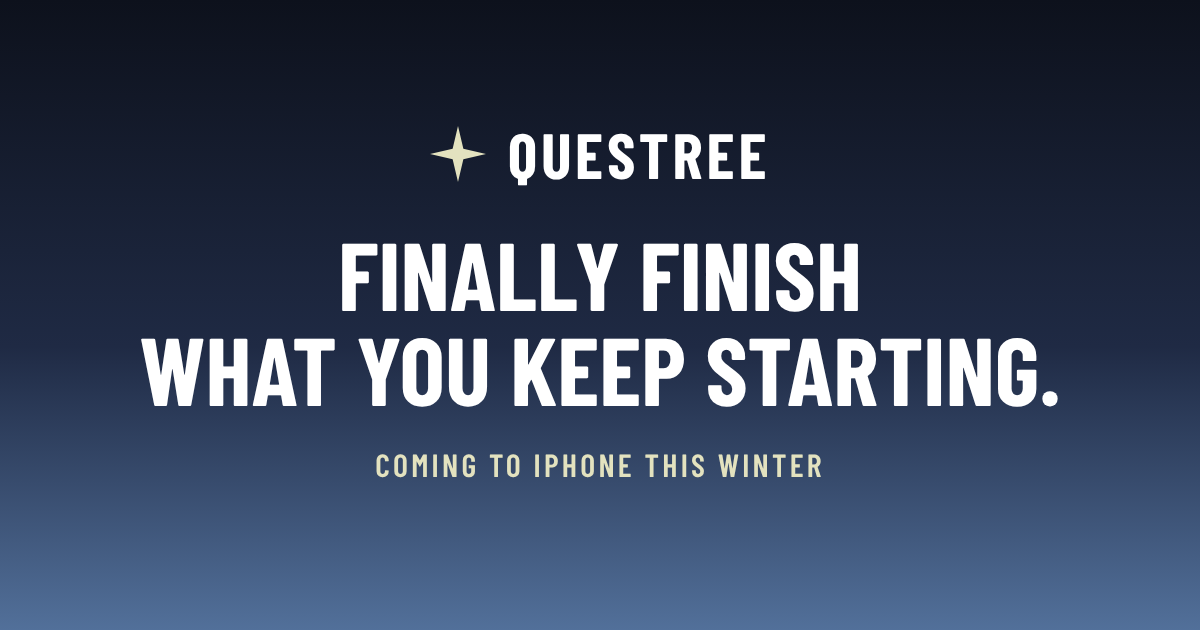
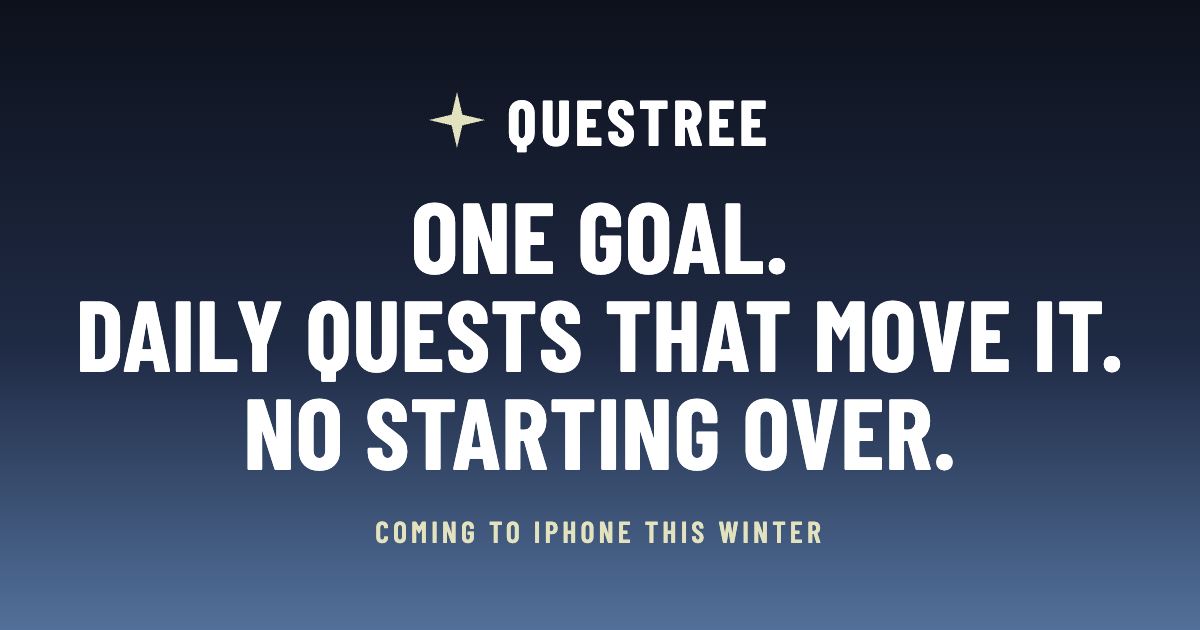
S94 L4 hero: locked headline 'One goal. Daily quests that move it. No starting over.' with a one-sentence sub-line; same line in title, meta description, OG and Twitter tags (twitter:title/description/image added). og.png redrawn with the new headline.

Changed region(s): [[0.0617, 0.1508, 0.9558, 0.754], [0.3083, 0.8143, 0.6783, 0.8746]]

diff --git a/index.html b/index.html
@@ -3,14 +3,19 @@
 <head>
 <meta charset="utf-8">
 <meta name="viewport" content="width=device-width, initial-scale=1">
-<title>Questree — Your life is the adventure</title>
-<meta name="description" content="Pick one goal. Questree turns it into small daily quests that earn XP, unlock skills and grow your tree. Miss a week, lose nothing. Early access on iPhone.">
+<title>Questree · One goal. Daily quests that move it. No starting over.</title>
+<meta name="description" content="One goal. Daily quests that move it. No starting over. Pick one thing, get daily quests tied to it, and come back easily after a break.">
 <meta name="theme-color" content="#111A2E">
-<meta property="og:title" content="Questree — Your life is the adventure">
-<meta property="og:description" content="One goal, small daily quests, a tree that grows with you. Miss a week, lose nothing.">
+<meta property="og:type" content="website">
+<meta property="og:site_name" content="Questree">
+<meta property="og:title" content="One goal. Daily quests that move it. No starting over.">
+<meta property="og:description" content="Pick one thing, get daily quests tied to it, and come back easily after a break.">
 <meta property="og:image" content="https://www.getquestree.com/og.png">
 <meta property="og:url" content="https://www.getquestree.com/">
 <meta name="twitter:card" content="summary_large_image">
+<meta name="twitter:title" content="One goal. Daily quests that move it. No starting over.">
+<meta name="twitter:description" content="Pick one thing, get daily quests tied to it, and come back easily after a break.">
+<meta name="twitter:image" content="https://www.getquestree.com/og.png">
 <link rel="icon" href="/favicon.svg" type="image/svg+xml">
 <link rel="preconnect" href="https://fonts.googleapis.com">
 <link rel="preconnect" href="https://fonts.gstatic.com" crossorigin>
@@ -477,8 +482,8 @@ ${WORD.map((d, k) => html`<path class="qd" pathLength="1" d=${d} style=${'animat
 </g>
 </svg>
 <span class="mono rise" style="position: relative; font-size: 12px; color: rgba(227,226,191,.75); animation-delay: .9s">FREE EARLY ACCESS · IPHONE · DECEMBER</span>
-<h1 class="cond rise" style="position: relative; margin: 0; max-width: 980px; font-size: clamp(46px, 7.6vw, 108px); line-height: .92; animation-delay: 1s">Finally finish what you keep starting.</h1>
-<p class="rise" style="position: relative; margin: 0; max-width: 600px; font-size: clamp(17px, 1.6vw, 21px); line-height: 1.55; color: #C9CCD6; animation-delay: 1.1s">Pick one goal. Questree turns it into small daily quests that earn XP, unlock skills and grow your tree. Miss a week? Nothing's lost.</p>
+<h1 class="cond rise" style="position: relative; margin: 0; max-width: 980px; font-size: clamp(44px, 6.6vw, 96px); line-height: .94; animation-delay: 1s"><span style="display: block">One goal.</span><span style="display: block">Daily quests that move it.</span><span style="display: block">No starting over.</span></h1>
+<p class="rise" style="position: relative; margin: 0; max-width: 600px; font-size: clamp(17px, 1.6vw, 21px); line-height: 1.55; color: #C9CCD6; animation-delay: 1.1s">Pick one thing, get daily quests tied to it, and come back easily after a break.</p>
 <div class="rise" style="position: relative; width: 100%; display: flex; flex-direction: column; align-items: center; gap: 12px; animation-delay: 1.2s">
 ${joinForm(v, 'top')}
 <span style="font-size: 14px; color: #8C95AB">One email at launch. Nothing else.</span>
